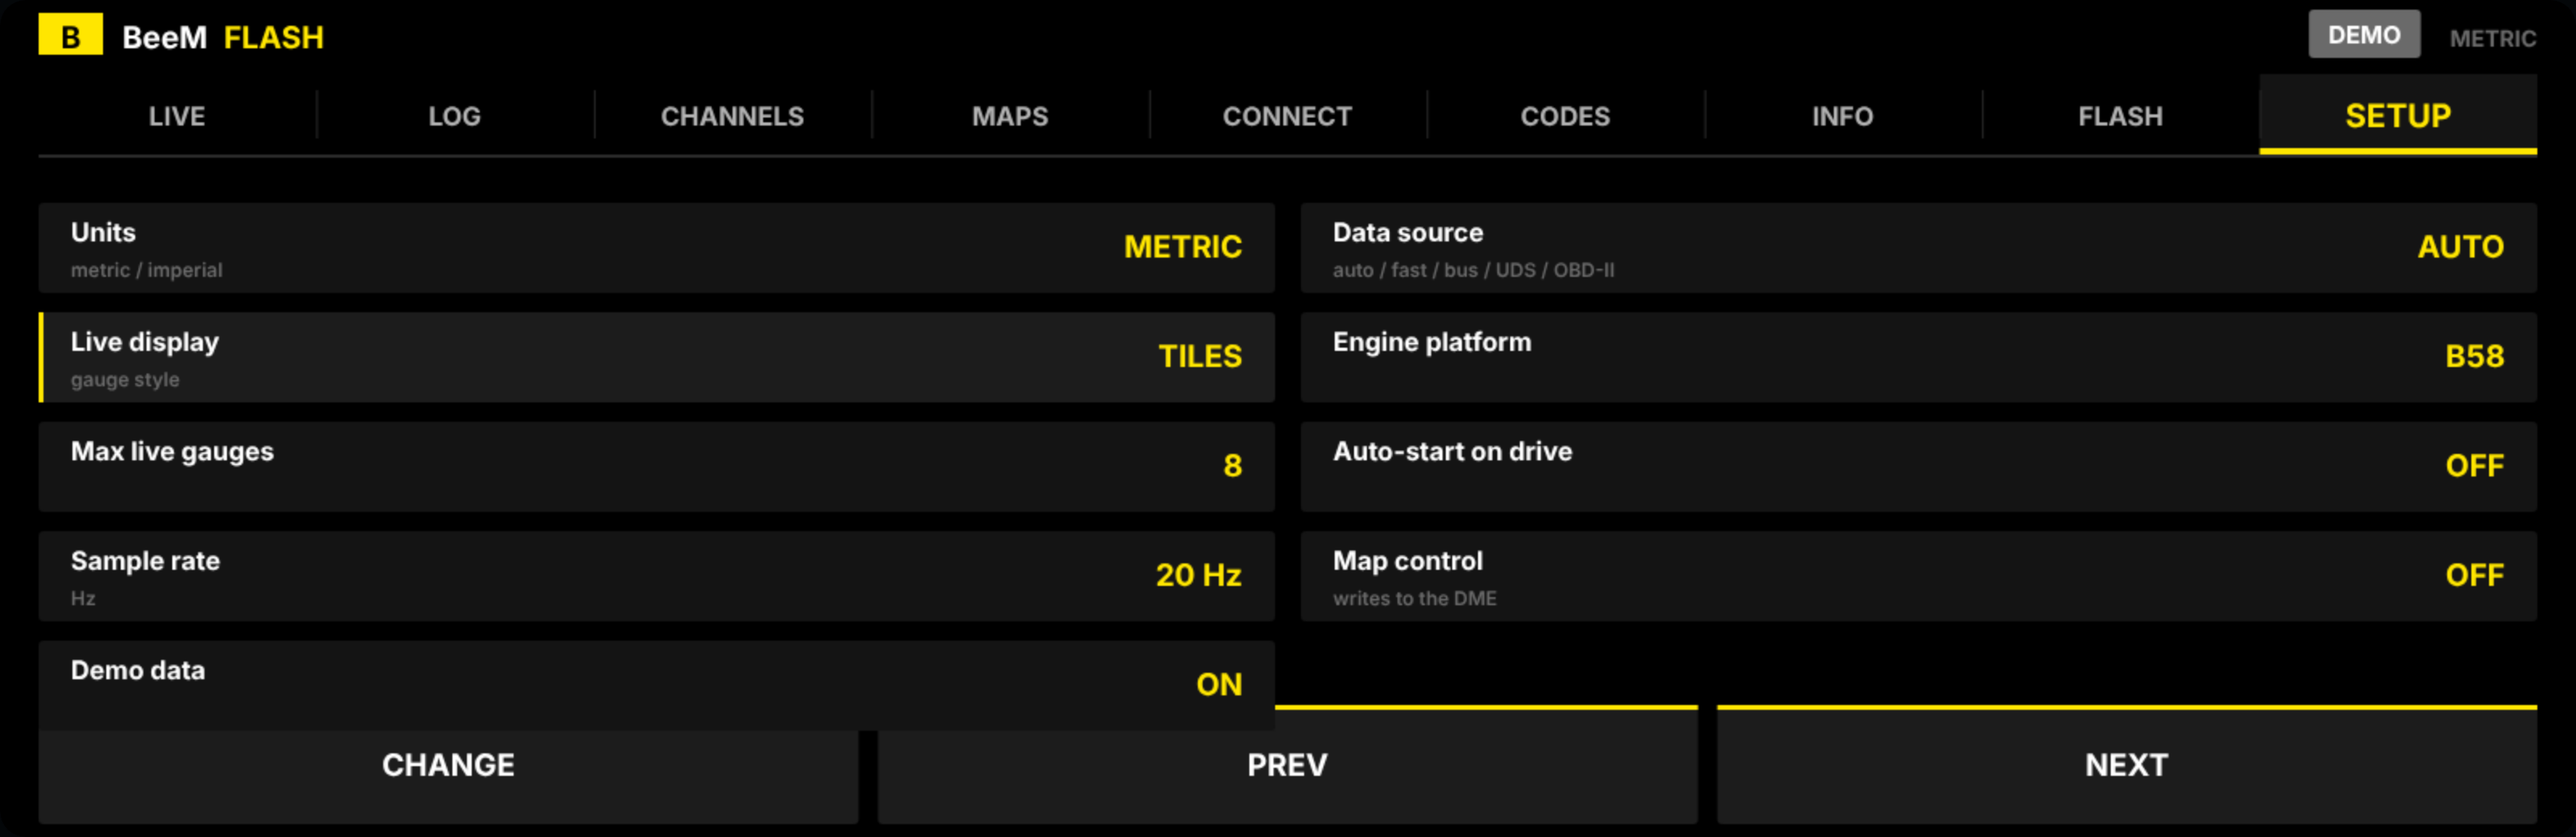
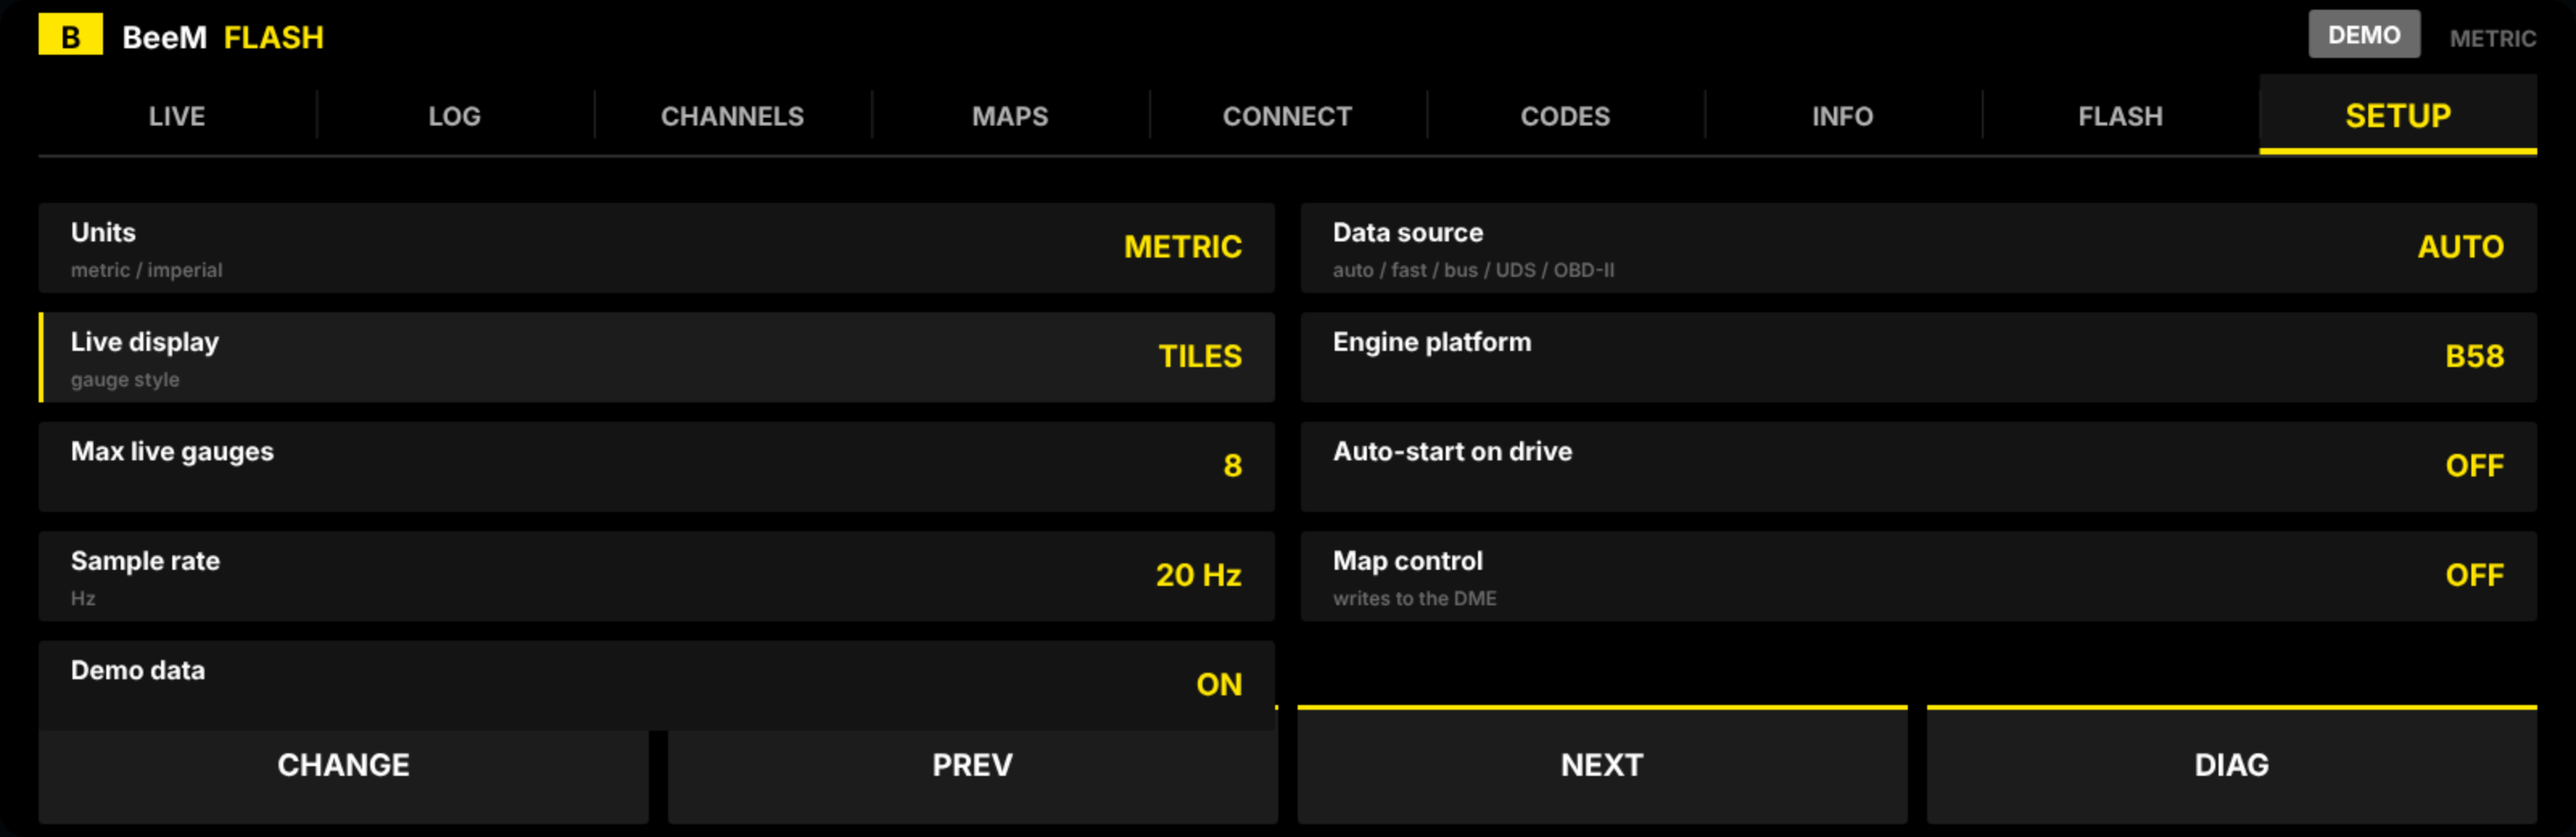
v2.11.1: in-app bridge diagnostics screen (SETUP -> DIAGNOSTICS)
Run the bridge feasibility probes from the head unit itself, no SSH. A new
DIAGNOSTICS sub-view off the SETUP tab (tap DIAG, then RUN) runs what the app
sandbox can actually check and shows it on screen:
  NET  - the head unit's Wi-Fi/IP interfaces (the address a phone targets),
         wlan0 highlighted
  P1   - whether the app can connect() to a bridge daemon's UNIX socket
         (per path: ok / EACCES / ENOENT) - the architecture's foundation
  P6   - one live UDS VIN read over TASU: "DME answered - GO", an NRC
         (reached but declined), or no reply
It states plainly that P3 (a phone reaching the head unit) cannot be tested
from inside the sandbox and needs the root daemon / tools/bridge-probes.

New bridgediag.js (os.networkInterfaces for NET, net.connect for P1, a 22 F1 90
read for P6), wired into the SETUP tab with a settings/diag sub-view toggle and
RUN/BACK actions. Read-only; sends nothing to the car beyond that one
identification read. The off-by-default config.bridgeProbe startup hook from
2.11.0 stays for headless use.

Verified: the screen renders clean in the Lambo theme (screenshot in
out/shots/setup-diag.png, added to the README gallery). 7 new tests pin the
VIN/NRC/no-reply/no-link decode; 388 passed. Build 2.11.1.

Claude-Session: https://claude.ai/code/session_016L48f8yNjthyyRfnj72ByZ

diff --git a/apps/wali_datalog/bridgediag.js b/apps/wali_datalog/bridgediag.js
@@ -1,0 +1,85 @@
+'use strict';
+//
+// bridgediag.js — in-app diagnostics for the wireless-bridge feasibility probes,
+// runnable from SETUP -> DIAGNOSTICS on the head unit (no SSH needed).
+//
+// It runs ONLY what the app sandbox can actually do, and is honest about the rest:
+//   * NET  — the head unit's own IPv4 interfaces (os.networkInterfaces): shows the
+//            wlan0 address a phone would target. No socket needed.
+//   * P1   — can the app connect() to a root daemon's UNIX socket? (the foundation
+//            of the bridge architecture). Reports per-path: ok / EACCES / ENOENT / timeout.
+//   * P6   — one live UDS read (22 F1 90 VIN) over the TASU link: does the car
+//            answer US at all? reply / NRC / no-reply.
+// It CANNOT do P3 (bind an inbound listener for the phone) — no sandbox can; that
+// needs the root daemon. The screen says so rather than implying otherwise.
+//
+var CANDIDATE_SOCKETS = ['/run/beem-probe/p.sock', '/dev/shm/beem-probe/p.sock', '/run/beem-bridge/bridge.sock'];
+
+function netInfo() {
+  var out = [];
+  try {
+    var os = require('os');
+    var ifs = os.networkInterfaces() || {};
+    Object.keys(ifs).forEach(function (name) {
+      (ifs[name] || []).forEach(function (a) {
+        if (a && (a.family === 'IPv4' || a.family === 4)) {
+          out.push({ iface: name, ip: a.address, mac: a.mac || '', internal: !!a.internal });
+        }
+      });
+    });
+  } catch (e) { out.push({ iface: '(error)', ip: String(e && e.message || e), mac: '', internal: false }); }
+  return out;
+}
+
+function probeSocket(path, timeoutMs, netMod) {
+  return new Promise(function (resolve) {
+    var net = netMod; try { if (!net) net = require('net'); } catch (e) { resolve({ path: path, status: 'no-net' }); return; }
+    var done = false, c;
+    function finish(status, detail) { if (done) return; done = true; try { c && c.destroy(); } catch (e) {} resolve({ path: path, status: status, detail: detail || '' }); }
+    try { c = net.connect(path); } catch (e) { finish('error', String(e && e.message)); return; }
+    try {
+      c.on('connect', function () { try { c.write('ping\n'); } catch (e) {} });
+      c.on('data', function (d) { finish('ok', String(d).trim()); });
+      c.on('error', function (e) { finish((e && e.code) || 'error', String(e && e.message)); });
+    } catch (e) { finish('error', String(e && e.message)); return; }
+    setTimeout(function () { finish('timeout', ''); }, timeoutMs || 1200);
+  });
+}
+
+function probeSockets(paths, netMod) {
+  paths = paths || CANDIDATE_SOCKETS;
+  var out = [], i = 0;
+  function next() {
+    if (i >= paths.length) return Promise.resolve(out);
+    return probeSocket(paths[i++], 1200, netMod).then(function (r) { out.push(r); return next(); });
+  }
+  return next();
+}
+
+// send(bytes) -> Promise<udsBytes> (the app's vehiclelink). Reads the VIN from the DME.
+function probeTasu(send) {
+  if (typeof send !== 'function') return Promise.resolve({ status: 'no-link', note: 'no diagnostic link in this build' });
+  var p;
+  try { p = send([0x22, 0xF1, 0x90]); } catch (e) { return Promise.resolve({ status: 'no-reply', note: String(e && e.message || e) }); }
+  return Promise.resolve(p).then(function (uds) {
+    if (!uds || !uds.length) return { status: 'empty' };
+    if (uds[0] === 0x62) {
+      var vin = '';
+      for (var i = 3; i < uds.length; i++) { var ch = uds[i]; vin += (ch >= 32 && ch < 127) ? String.fromCharCode(ch) : '.'; }
+      return { status: 'ok', vin: vin, bytes: uds.length };
+    }
+    if (uds[0] === 0x7f) return { status: 'nrc', nrc: uds[2] };
+    return { status: 'other', first: uds[0] };
+  }, function (e) { return { status: 'no-reply', note: String(e && e.message || e) }; });
+}
+
+function run(opts) {
+  opts = opts || {};
+  return probeSockets(opts.socketPaths, opts.netMod).then(function (sockets) {
+    return probeTasu(opts.send).then(function (tasu) {
+      return { net: netInfo(), sockets: sockets, tasu: tasu, at: (opts.now ? opts.now() : Date.now()) };
+    });
+  });
+}
+
+module.exports = { run: run, netInfo: netInfo, probeSockets: probeSockets, probeSocket: probeSocket, probeTasu: probeTasu, CANDIDATE_SOCKETS: CANDIDATE_SOCKETS };

diff --git a/apps/wali_datalog/screens.js b/apps/wali_datalog/screens.js
@@ -482,7 +482,54 @@ function flash(cv, t, view, R) {
 }
 
 // --------------------------------------------------------------- SETUP ------
+function setupDiag(cv, t, view, R) {
+  var d = view.bdiag || {}, res = d.result;
+  cv.text('BRIDGE DIAGNOSTICS', R.x, R.y - 8, 18, t.faint, { weight: 'bold' });
+  cv.text(d.running ? 'Running…' : (res ? 'Done' : 'Tap RUN'), R.x + R.w, R.y - 8, 18, t.dim, { align: 'r' });
+  if (!res) {
+    cv.text('Tests what the app itself can check, no SSH needed:', R.x, R.y + 30, 20, t.text, {});
+    cv.text('NET  — the head unit\u2019s Wi-Fi/IP addresses (the address a phone would target)', R.x + 10, R.y + 66, 17, t.dim, {});
+    cv.text('P1   — can the app reach a bridge daemon\u2019s local socket', R.x + 10, R.y + 92, 17, t.dim, {});
+    cv.text('P6   — one live read from the car over the TASU link (does the DME answer us)', R.x + 10, R.y + 118, 17, t.dim, {});
+    cv.text('P3 (a phone reaching the head unit) needs the root daemon \u2014 see tools/bridge-probes.', R.x + 10, R.y + 158, 16, t.faint, {});
+    return;
+  }
+  var y = R.y + 18, L = R.x + 10;
+  // NET
+  cv.text('NET', L, y, 16, t.accent, { weight: 'bold' });
+  var nets = res.net || [];
+  if (!nets.length) cv.text('no interfaces', L + 70, y, 17, t.dim, {});
+  for (var i = 0; i < nets.length && i < 5; i++) {
+    var n = nets[i], hot = /wlan/i.test(n.iface || '');
+    cv.text((n.iface || '?') + '   ' + (n.ip || '') + '   ' + (n.mac || ''), L + 70, y + i * 22, 16,
+      hot ? t.accent : (n.internal ? t.faint : t.text), { weight: hot ? 'bold' : 'normal' });
+  }
+  // P1 sockets
+  y = R.y + 18; var R2 = R.x + R.w * 0.52;
+  cv.text('P1 app\u2192daemon', R2, y, 16, t.accent, { weight: 'bold' });
+  var socks = res.sockets || [];
+  for (var j = 0; j < socks.length && j < 3; j++) {
+    var sk = socks[j], okk = sk.status === 'ok';
+    cv.text(sk.status.toUpperCase() + '  ' + sk.path, R2, y + 24 + j * 22, 15, okk ? t.accent : t.faint, { weight: okk ? 'bold' : 'normal' });
+  }
+  if (!socks.length) cv.text('no socket paths tested', R2, y + 24, 15, t.faint, {});
+  // TASU (P6)
+  var ty = R.y + 150;
+  cv.fillRect(R.x, ty - 16, R.w, 1, t.line);
+  cv.text('P6 TASU', L, ty + 6, 16, t.accent, { weight: 'bold' });
+  var tu = res.tasu || {};
+  var tmsg, tcol;
+  if (tu.status === 'ok') { tmsg = 'DME answered \u2014 VIN ' + (tu.vin || '') + '  (the car talks to us \u2014 GO)'; tcol = t.text; }
+  else if (tu.status === 'nrc') { tmsg = 'DME refused: NRC 0x' + (tu.nrc || 0).toString(16).toUpperCase() + ' (reached the ECU, it declined this read)'; tcol = t.warn; }
+  else if (tu.status === 'no-reply') { tmsg = 'No reply from the DME (' + (tu.note || '') + ')'; tcol = t.crit; }
+  else if (tu.status === 'no-link') { tmsg = 'No diagnostic link in this build'; tcol = t.faint; }
+  else { tmsg = 'Unexpected: ' + JSON.stringify(tu).slice(0, 60); tcol = t.dim; }
+  cv.text(tmsg, L + 110, ty + 6, 17, tcol, { weight: 'bold' });
+  cv.text('P3 (phone \u2192 head unit) is not testable from the app \u2014 run tools/bridge-probes on the unit.', L, ty + 40, 15, t.faint, {});
+}
+
 function setup(cv, t, view, R) {
+  if (view.setupView === 'diag') return setupDiag(cv, t, view, R);
   var items = view.setup || [];
   var cols = 2, gx = 16, gy = 12, cw = (R.w - gx) / cols, rh = 56, perCol = Math.ceil(items.length / cols);
   for (var i = 0; i < items.length; i++) {

diff --git a/apps/wali_datalog/main.js b/apps/wali_datalog/main.js
@@ -127,6 +127,8 @@ App.prototype.start = function (ctx) {
   this.tab = 'live';
   this.selection = 0;
   this.setupSel = 0;
+  this.setupView = 'settings';           // 'settings' | 'diag'
+  this.bdiag = { running: false, result: null, msg: '' };
   this.latest = { values: {}, demo: false, live: false };
   this.confirm = false;
   // Fault-code (DTC) page state.
@@ -529,11 +531,18 @@ App.prototype._actions = function () {
       { label: 'CANCEL', disabled: !this.flash.confirm, fn: function () { self.flash.confirm = false; } }
     ];
   }
-  if (s === 'setup') return [
-    { label: 'CHANGE', fn: function () { self._cycleSetting(self.setupSel); } },
-    { label: 'PREV', fn: function () { self._setupMove(-1); } },
-    { label: 'NEXT', fn: function () { self._setupMove(1); } }
-  ];
+  if (s === 'setup') {
+    if (self.setupView === 'diag') return [
+      { label: self.bdiag.running ? 'RUNNING…' : 'RUN', disabled: self.bdiag.running, fn: function () { self._runBridgeDiag(); } },
+      { label: 'BACK', fn: function () { self.setupView = 'settings'; } }
+    ];
+    return [
+      { label: 'CHANGE', fn: function () { self._cycleSetting(self.setupSel); } },
+      { label: 'PREV', fn: function () { self._setupMove(-1); } },
+      { label: 'NEXT', fn: function () { self._setupMove(1); } },
+      { label: 'DIAG', fn: function () { self.setupView = 'diag'; } }
+    ];
+  }
   return [];
 };
 
@@ -807,6 +816,27 @@ App.prototype._infoReadCal = function () {
 };
 
 // ---- settings (SETUP tab) ----------------------------------------------
+// Run the in-app bridge diagnostics (SETUP -> DIAGNOSTICS). Only what the sandbox
+// can do: own network view, the app<->daemon socket test (P1), and one live TASU
+// read (P6). Opening the inbound listener a phone connects to (P3) needs the root
+// daemon, which this cannot do and the screen says so.
+App.prototype._runBridgeDiag = function () {
+  var self = this;
+  if (this.bdiag.running) return;
+  this.bdiag.running = true; this.bdiag.msg = 'Running…';
+  var bridgediag = require('./bridgediag');
+  var send = null;
+  try { var gw = this._makeGateway(); if (gw && gw.send) send = function (b) { return gw.send(b); }; } catch (e) {}
+  var paths = (this._config().bridgeProbePaths) || undefined;
+  Promise.resolve().then(function () {
+    return bridgediag.run({ send: send, socketPaths: paths });
+  }).then(function (res) {
+    self.bdiag.result = res; self.bdiag.msg = 'Done'; self.bdiag.running = false;
+  }, function (e) {
+    self.bdiag.msg = 'Probe error: ' + ((e && e.message) || e); self.bdiag.running = false;
+  });
+};
+
 App.prototype._setupMove = function (d) {
   var n = SETTINGS_SCHEMA.length;
   this.setupSel = ((this.setupSel + d) % n + n) % n;
@@ -975,6 +1005,7 @@ App.prototype.buildView = function () {
     },
     info: { reading: this.info.reading, items: this.info.items, tune: this.info.tune, done: this.info.done, msg: this.info.msg, binVerify: this.info.binVerify },
     setup: this._setupItems(), setupSel: this.setupSel,
+    setupView: this.setupView, bdiag: this.bdiag,
     tab: this.tab, tabs: TABS, actions: this._actions(),
     webUrl: this._config().webUrl || ''
   };

diff --git a/test/run.js b/test/run.js
@@ -1149,6 +1149,7 @@ Promise.resolve()
       ok(r2.ok === false && /region/i.test(r2.error), 'calreadout: refuses without a configured region');
     });
   })
+  .then(bridgeDiagTests)
   .then(report)
   .catch(function (e) { console.error(e); process.exit(1); });
 
@@ -1326,3 +1327,24 @@ function report() {
   ok(policy.evaluate({ target: 0x12, uds: [0x10, 0x03] }, armed()).allow === true, 'extended session (10 03) allowed in read tier');
   ok(policy.evaluate({ target: 0x12, uds: [0x10, 0x02] }, armed()).allow === false, 'programming session (10 02) needs the write arm');
 })();
+
+// ---- in-app bridge diagnostics (SETUP > DIAGNOSTICS) -------------------------
+function bridgeDiagTests() {
+  var bd = require(A + 'bridgediag');
+  var vinBytes = [0x62, 0xF1, 0x90].concat('WBA5R1C09'.split('').map(function (c) { return c.charCodeAt(0); }));
+  return bd.probeTasu(function () { return Promise.resolve(vinBytes); }).then(function (r) {
+    eq(r.status, 'ok', 'bridgediag: a positive DID reply reads as ok');
+    eq(r.vin, 'WBA5R1C09', 'bridgediag: VIN decoded from the reply');
+    return bd.probeTasu(function () { return Promise.resolve([0x7f, 0x22, 0x31]); });
+  }).then(function (r) {
+    eq(r.status, 'nrc', 'bridgediag: a 7F reply reads as an NRC (reached the ECU)');
+    eq(r.nrc, 0x31, 'bridgediag: the NRC byte is surfaced');
+    return bd.probeTasu(function () { return Promise.reject(new Error('no reply from 0x12')); });
+  }).then(function (r) {
+    eq(r.status, 'no-reply', 'bridgediag: a rejected read reads as no-reply (car silent)');
+    return bd.probeTasu(null);
+  }).then(function (r) {
+    eq(r.status, 'no-link', 'bridgediag: no transport reads as no-link, never a false positive');
+    ok(Array.isArray(bd.netInfo()), 'bridgediag: netInfo returns an interface list');
+  });
+}

diff --git a/runtime/web/index.html b/runtime/web/index.html
@@ -133,6 +133,14 @@
       app.tab = 'info'; app.render(cv); cap = 'INFO — ECU identification + tune status (read-only)';
     }
     else if (name === 'setup') { app = makeApp(); drive(app, 6); app.setupSel = 1; app.tab = 'setup'; app.render(cv); cap = 'SETUP — in-app settings'; }
+    else if (name === 'setup-diag') {
+      app = makeApp(); app.tab = 'setup'; app.setupView = 'diag';
+      app.bdiag = { running: false, msg: 'Done', result: {
+        net: [ { iface: 'wlan0', ip: '192.168.44.1', mac: 'a4:50:46:aa:bb:cc', internal: false }, { iface: 'socnet0', ip: '160.48.199.115', mac: '02:11:22:33:44:55', internal: false }, { iface: 'lo', ip: '127.0.0.1', mac: '', internal: true } ],
+        sockets: [ { path: '/run/beem-probe/p.sock', status: 'ENOENT' }, { path: '/dev/shm/beem-probe/p.sock', status: 'ENOENT' } ],
+        tasu: { status: 'ok', vin: 'WBA5R1C09NFK12345', bytes: 20 } } };
+      app.render(cv); cap = 'SETUP → DIAGNOSTICS (sample result)';
+    }
     else { app = makeApp(); app.tab = 'live'; app.render(cv); }
     document.getElementById('cap').textContent = cap;
     return true;

diff --git a/scripts/make-shots.js b/scripts/make-shots.js
@@ -10,7 +10,7 @@ var ROOT = path.resolve(__dirname, '..');
 var WEB = path.join(ROOT, 'runtime', 'web');
 var OUT = path.join(ROOT, 'out', 'shots');
 
-var SCREENS = ['live', 'live-bars', 'live-dials', 'log', 'log-rec', 'log-run', 'channels', 'maps-off', 'maps', 'maps-confirm', 'connect', 'connect-locked', 'codes', 'codes-result', 'codes-confirm', 'info', 'flash-blocked', 'flash-off', 'flash-ready', 'flash-confirm', 'flash-running', 'setup'];
+var SCREENS = ['live', 'live-bars', 'live-dials', 'log', 'log-rec', 'log-run', 'channels', 'maps-off', 'maps', 'maps-confirm', 'connect', 'connect-locked', 'codes', 'codes-result', 'codes-confirm', 'info', 'flash-blocked', 'flash-off', 'flash-ready', 'flash-confirm', 'flash-running', 'setup', 'setup-diag'];
 
 (async function () {
   fs.mkdirSync(OUT, { recursive: true });

diff --git a/CHANGELOG.md b/CHANGELOG.md
@@ -18,6 +18,24 @@ UI: one canvas screen with internal paging driven by four HMI bar buttons
 
 ## Beta 2 — v2.x.x
 
+### v2.11.1 — in-app bridge diagnostics (SETUP → DIAGNOSTICS)
+- **Run the bridge probes from the screen, no SSH.** A new DIAGNOSTICS view off the
+  SETUP tab (tap **DIAG**, then **RUN**) runs everything the app itself can check and
+  reports it on screen:
+  - **NET** — the head unit's Wi-Fi/IP interfaces (the address a phone would target),
+    with wlan0 highlighted.
+  - **P1** — whether the app can reach a bridge daemon's local socket (the
+    foundation of the bridge architecture): per-path ok / EACCES / ENOENT.
+  - **P6** — one live UDS read (VIN) over the TASU link, so you can see in plain
+    words whether the car answers us: "DME answered — GO", an NRC (reached but
+    declined), or no reply.
+  - It states honestly that **P3** (a phone reaching the head unit) is not testable
+    from inside the app and needs the root daemon / `tools/bridge-probes`.
+- Read-only; sends nothing to the car beyond that one identification read. New
+  `bridgediag.js` with 7 tests (388 total). The screen is shown in the README gallery.
+- The earlier off-by-default `config.bridgeProbe` startup hook remains for headless
+  use; this screen is the on-device, no-config way to run it.
+
 ### v2.11.0 — wireless-bridge groundwork (no behaviour change on the car)
 Foundation for letting an external tool (e.g. xHP) reach the car THROUGH the MGU
 over Wi-Fi. Nothing new appears on screen and the running app is unchanged for
